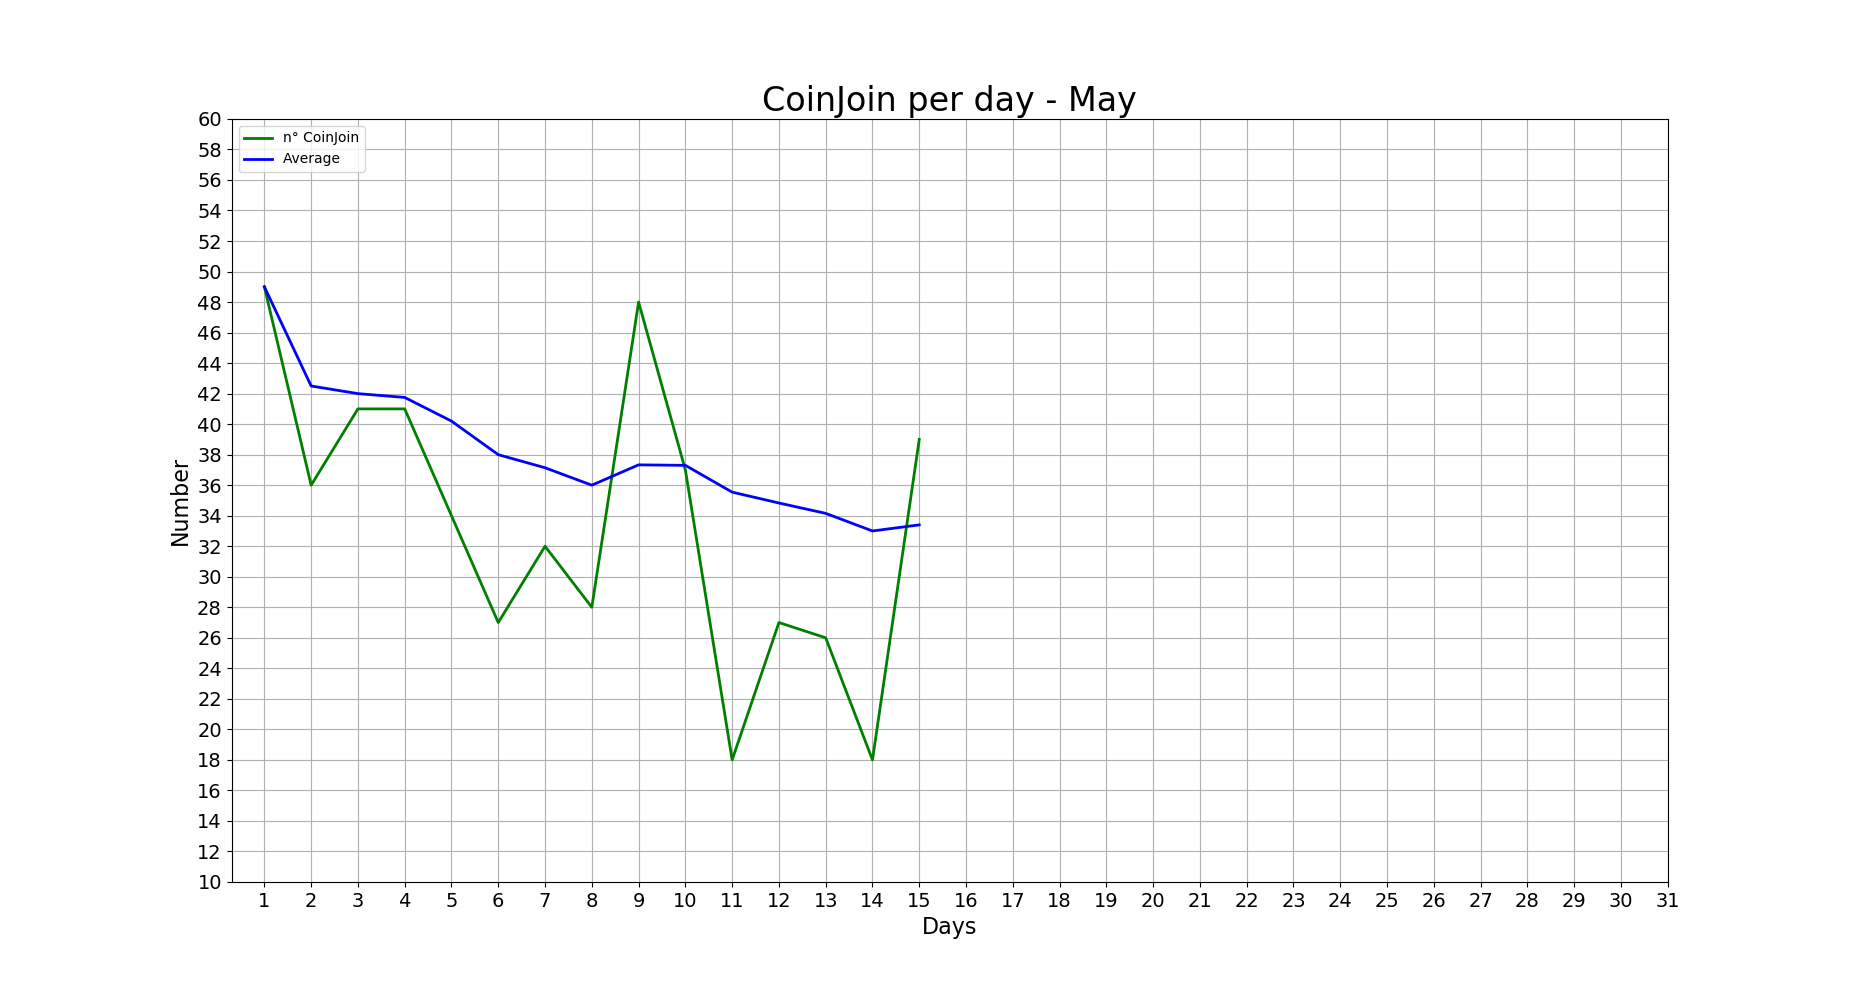
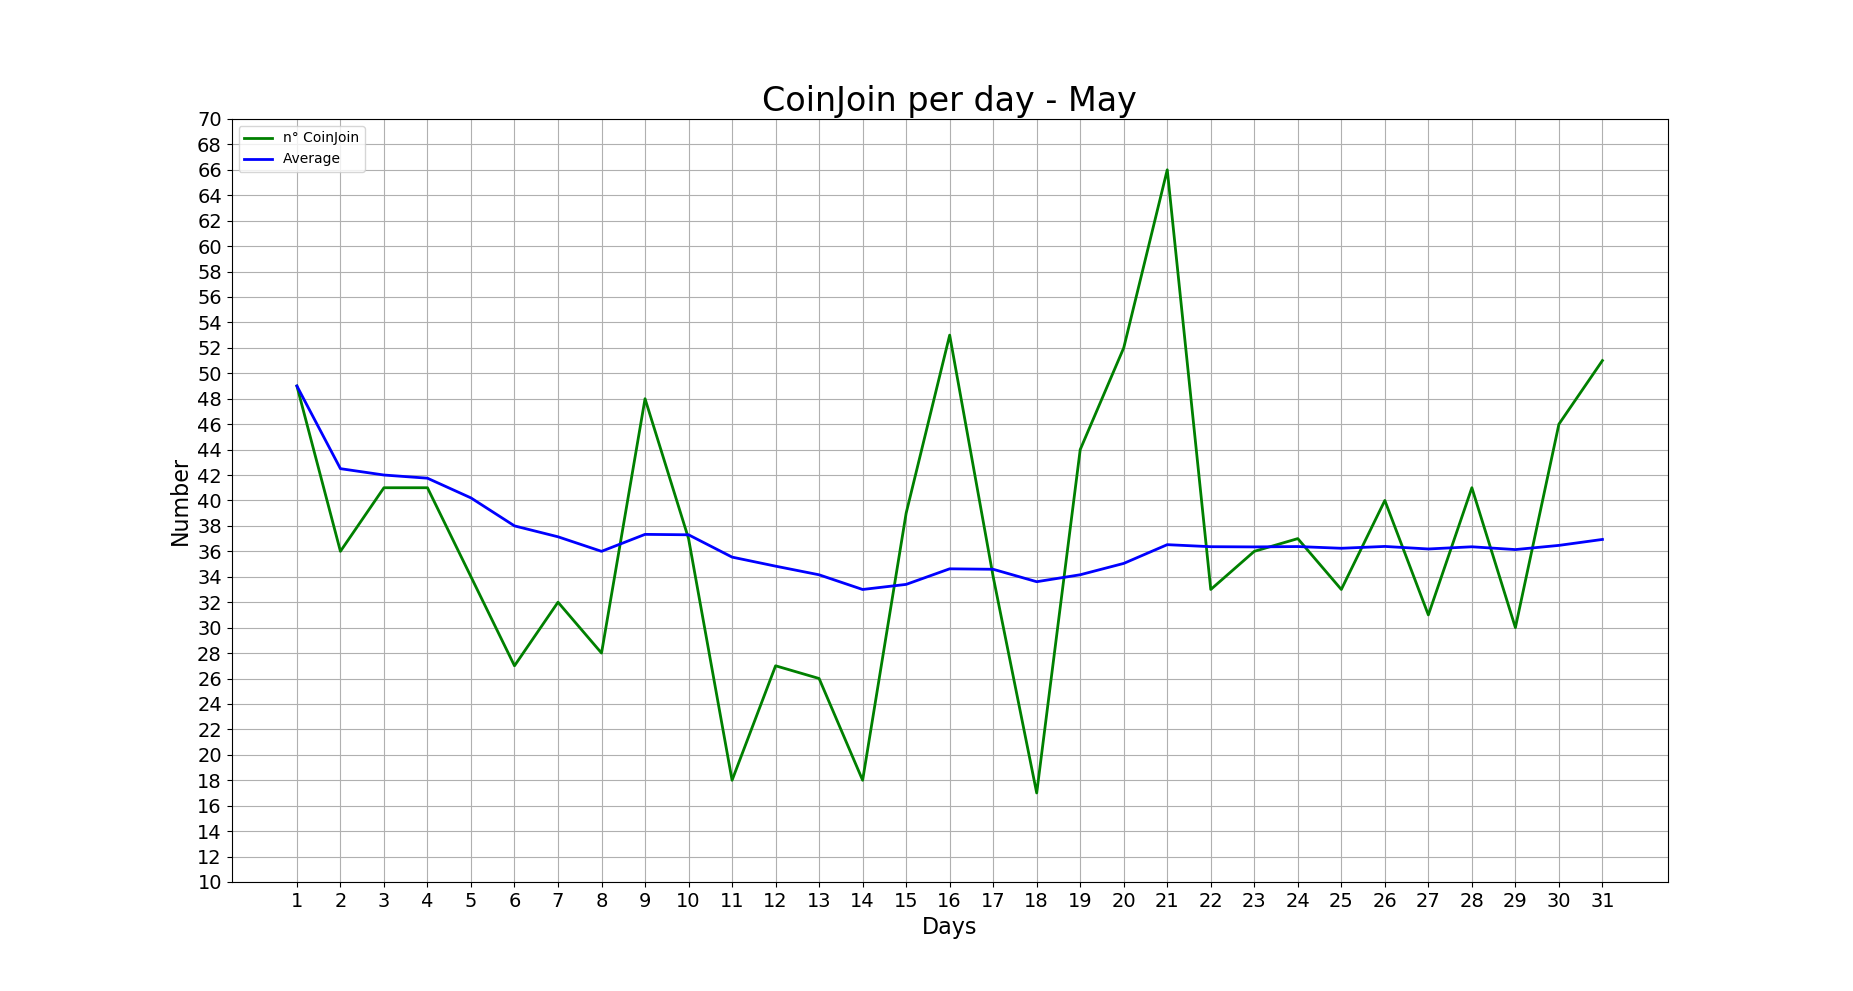
Update May

diff --git a/README.md b/README.md
@@ -22,8 +22,8 @@ For stats about the previous months, look [here](months_list.md).
 
 ---
 
-## May - from block 628350 to 630527 (**HAPPY HALVING!**)
-**501 CoinJoin round**
+## May - from block 628350 to 632541 (**HAPPY HALVING!**)
+**1145 CoinJoin round**
 
 ---
 
@@ -34,29 +34,29 @@ For stats about the previous months, look [here](months_list.md).
 
 **Last values:**
 
-* Blue line = 33.4
+* Blue line = 36.9
 
 #### [Partecipants per CoinJoin](Dont_Trust_Verify.md#partecipants-per-coinjoin)
 ![partecipants_per_CoinJoin](2020/May/partecipants_per_CoinJoin.png)
 
 **Last values:**
 
-* Blue line = 71.4
+* Blue line = 60.6
 
 #### [Average input size per CoinJoin](Dont_Trust_Verify.md#average-input-size-per-coinjoin)
 ![average_input_size_per_CoinJoin](2020/May/average_input_size_per_CoinJoin.png)
 
 **Last values:**
 
-* Blue line = 0.39
+* Blue line = 0.36
 
 #### [Total volume](Dont_Trust_Verify.md#total-volume)
 ![total_volume](2020/May/total_volume.png)
 
 **Last values:**
 
-* Green line = 18853
-* Blue line = 10649
+* Green line = 35522
+* Blue line = 19826
 
 ### INPUTS
 
@@ -65,42 +65,42 @@ For stats about the previous months, look [here](months_list.md).
 
 **Last values:**
 
-* Orange line = 1445
-* Red line = 3775
-* Light blue line = 14364
-* Green line = 45902
-* Blue line = 48232
+* Orange line = 2483
+* Red line = 6487
+* Light blue line = 30163
+* Green line = 89684
+* Blue line = 93688
 
 #### [Percentage remixers per CoinJoin](Dont_Trust_Verify.md#percentage-remixers-per-coinjoin)
 ![percentage_remixers_per_CoinJoin](2020/May/percentage_remixers_per_CoinJoin.png)
 
 **Last values:**
 
-* Blue line = 30.6
+* Blue line = 34.3
 
 #### [Total percentage remixers](Dont_Trust_Verify.md#total-percentage-remixers)
 ![total_percentage_remixers](2020/May/total_percentage_remixers.png)
 
 **Last values:**
 
-* Green line = 31.3
-* Blue line = 29.8
+* Green line = 33.6
+* Blue line = 32.2
 
 #### [Percentage address reuse per CoinJoin](Dont_Trust_Verify.md#percentage-address-reuse-per-coinjoin)
 ![percentage_address_reuse_per_CoinJoin](2020/May/percentage_address_reuse_per_CoinJoin.png)
 
 **Last values:**
 
-* Orange line = 4.4
-* Red line = 4.6
+* Orange line = 3.8
+* Red line = 4
 
 #### [Total percentage address reuse](Dont_Trust_Verify.md#total-percentage-address-reuse)
 ![total_percentage_address_reuse](2020/May/total_percentage_address_reuse.png)
 
 **Last values:**
 
-* Orange line = 3.15
-* Red line = 7.8
+* Orange line = 2.77
+* Red line = 6.92
 
 ### EQUAL OUTPUTS
 
@@ -109,25 +109,25 @@ For stats about the previous months, look [here](months_list.md).
 
 **Last values:**
 
-* Orange line = 1858
-* Red line = 4844
-* Green line = 50076
-* Blue line = 53062
+* Orange line = 3173
+* Red line = 8111
+* Green line = 96096
+* Blue line = 101034
 
 #### [Percentage equal outputs reused per CoinJoin](Dont_Trust_Verify.md#percentage-equal-outputs-reused-per-coinjoin)
 ![percentage_equal_outputs_reused_per_CoinJoin](2020/May/percentage_equal_outputs_reused_per_CoinJoin.png)
 
 **Last values:**
 
-* Red line = 5.1
+* Red line = 4.25
 
 #### [Total percentage outputs reused](Dont_Trust_Verify.md#total-percentage-equal-outputs-reused)
 ![total_percentage_output_reused](2020/May/total_percentage_outputs_reused.png)
 
 **Last values:**
 
-* Orange line = 3.7
-* Red line = 9.1
+* Orange line = 3.3
+* Red line = 8.03
 
 ---
 
